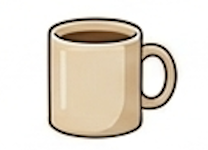
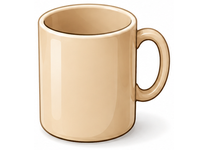
bug fix(after repetitious failing to update index properly))

diff --git a/index.html b/index.html
@@ -296,19 +296,25 @@ function toggleMute() {
   document.body.appendChild(btn);
 })();
 
-// ── SFX (blob URL cache + new Audio) ─────────────────────────────────────
-const _sfxBlobUrls = {};
-function _fetchSfx(name) {
-  fetch('audio/' + name + '.mp3')
-    .then(function(r) { return r.blob(); })
-    .then(function(blob) { _sfxBlobUrls[name] = URL.createObjectURL(blob); })
-    .catch(function() {});
-}
+// ── SFX (single element per sound) ───────────────────────────────────────
+const _sfxAudio = {};
+['clickysound','correctsound','wrongsound'].forEach(function(name) {
+  _sfxAudio[name] = new Audio('audio/' + name + '.mp3');
+});
 function _playSfx(name) {
-  if (_muted || !_sfxBlobUrls[name]) return;
-  try { new Audio(_sfxBlobUrls[name]).play().catch(function(){}); } catch(e) {}
+  if (_muted || !_sfxAudio[name]) return;
+  try { _sfxAudio[name].currentTime = 0; _sfxAudio[name].play().catch(function(){}); } catch(e) {}
 }
-['clickysound','correctsound','wrongsound'].forEach(_fetchSfx);
+// ── iOS Audio Unlock ──────────────────────────────────────────────────────
+(function() {
+  function _unlock() {
+    var a = new Audio('audio/clickysound.mp3');
+    a.muted = true;
+    a.play().then(function() { a.pause(); }).catch(function(){});
+  }
+  document.addEventListener('touchstart', _unlock, { once: true, capture: true });
+  document.addEventListener('click',      _unlock, { once: true, capture: true });
+})();
 
 // ── Word audio (blob URL cache + new Audio) ──────────────────────────────
 const _wordBlobUrls = {};

diff --git a/game2.html b/game2.html
@@ -334,19 +334,14 @@ function toggleMute() {
   document.body.appendChild(btn);
 })();
 
-// ── SFX (2-element pool per sound, preload + iOS-unlock) ──────────────────
-const _sfxPool = {};
-(function() {
-  ['clickysound','correctsound','wrongsound'].forEach(function(name) {
-    var p = [new Audio('audio/'+name+'.mp3'), new Audio('audio/'+name+'.mp3')];
-    p.forEach(function(a) { a.preload = 'auto'; a.load(); });
-    _sfxPool[name] = { p: p, i: 0 };
-  });
-})();
+// ── SFX (single element per sound) ───────────────────────────────────────
+const _sfxAudio = {};
+['clickysound','correctsound','wrongsound'].forEach(function(name) {
+  _sfxAudio[name] = new Audio('audio/' + name + '.mp3');
+});
 function _playSfx(name) {
-  if (_muted || !_sfxPool[name]) return;
-  var e = _sfxPool[name], a = e.p[e.i++ & 1];
-  try { a.currentTime = 0; a.play().catch(function(){}); } catch(ex) {}
+  if (_muted || !_sfxAudio[name]) return;
+  try { _sfxAudio[name].currentTime = 0; _sfxAudio[name].play().catch(function(){}); } catch(e) {}
 }
 
 // ── Word audio (blob URL cache + new Audio) ──────────────────────────────
@@ -397,7 +392,6 @@ window.getNinjaCatalogs = function () {
 
 function playSfx(f) { _playSfx(f); }
 var _wordAudio = new Audio('audio/clickysound.mp3'); // reusable element (iOS unlock seed)
-_wordAudio.preload = 'auto';
 function speak(w) {
   if (_muted || !w) return;
   const key = getFileKey(w);
@@ -406,7 +400,6 @@ function speak(w) {
   try {
     _wordAudio.pause();
     _wordAudio.src = url;
-    _wordAudio.load();
     _wordAudio.play().catch(function(){});
   } catch(e) {}
 }

diff --git a/sentence-ninja.html b/sentence-ninja.html
@@ -678,19 +678,14 @@ function toggleMute() {
   document.body.appendChild(btn);
 })();
 
-// ── SFX (2-element pool per sound, preload + iOS-unlock) ──────────────────
-const _sfxPool = {};
-(function() {
-  ['clickysound','correctsound','wrongsound','correctsound_short','correct_short'].forEach(function(name) {
-    var p = [new Audio('audio/'+name+'.mp3'), new Audio('audio/'+name+'.mp3')];
-    p.forEach(function(a) { a.preload = 'auto'; a.load(); });
-    _sfxPool[name] = { p: p, i: 0 };
-  });
-})();
+// ── SFX (single element per sound) ───────────────────────────────────────
+const _sfxAudio = {};
+['clickysound','correctsound','wrongsound','correctsound_short','correct_short'].forEach(function(name) {
+  _sfxAudio[name] = new Audio('audio/' + name + '.mp3');
+});
 function _playSfx(name) {
-  if (_muted || !_sfxPool[name]) return;
-  var e = _sfxPool[name], a = e.p[e.i++ & 1];
-  try { a.currentTime = 0; a.play().catch(function(){}); } catch(ex) {}
+  if (_muted || !_sfxAudio[name]) return;
+  try { _sfxAudio[name].currentTime = 0; _sfxAudio[name].play().catch(function(){}); } catch(e) {}
 }
 
 function playSfx(f) { _playSfx(f); }
@@ -705,7 +700,6 @@ function _preloadSentence(key) {
     .catch(function() { _sentenceBlobUrls[key] = ''; });
 }
 var _sentenceAudio = new Audio('audio/clickysound.mp3'); // reusable element (iOS unlock seed)
-_sentenceAudio.preload = 'auto';
 function speakSentence(audio) {
   if (_muted || !audio) return;
   if (!(audio in _sentenceBlobUrls)) _preloadSentence(audio);
@@ -713,7 +707,6 @@ function speakSentence(audio) {
   try {
     _sentenceAudio.pause();
     _sentenceAudio.src = url;
-    _sentenceAudio.load();
     _sentenceAudio.play().catch(function(){});
   } catch(e) {}
 }

diff --git a/spelling-ninja.html b/spelling-ninja.html
@@ -505,19 +505,14 @@ function toggleMute() {
   document.body.appendChild(btn);
 })();
 
-// ── SFX (2-element pool per sound, preload + iOS-unlock) ──────────────────
-const _sfxPool = {};
-(function() {
-  ['clickysound','correctsound','correctsound_short','wrongsound','hintsound'].forEach(function(name) {
-    var p = [new Audio('audio/'+name+'.mp3'), new Audio('audio/'+name+'.mp3')];
-    p.forEach(function(a) { a.preload = 'auto'; a.load(); });
-    _sfxPool[name] = { p: p, i: 0 };
-  });
-})();
+// ── SFX (single element per sound) ───────────────────────────────────────
+const _sfxAudio = {};
+['clickysound','correctsound','correctsound_short','wrongsound','hintsound'].forEach(function(name) {
+  _sfxAudio[name] = new Audio('audio/' + name + '.mp3');
+});
 function _playSfx(name) {
-  if (_muted || !_sfxPool[name]) return;
-  var e = _sfxPool[name], a = e.p[e.i++ & 1];
-  try { a.currentTime = 0; a.play().catch(function(){}); } catch(ex) {}
+  if (_muted || !_sfxAudio[name]) return;
+  try { _sfxAudio[name].currentTime = 0; _sfxAudio[name].play().catch(function(){}); } catch(e) {}
 }
 
 // ── Word audio (blob URL cache + new Audio) ──────────────────────────────
@@ -752,7 +747,6 @@ function ninjaLogWrong(word, ms){
 
 function playSfx(f) { _playSfx(f); }
 var _wordAudio = new Audio('audio/clickysound.mp3'); // reusable element (iOS unlock seed)
-_wordAudio.preload = 'auto';
 function speak(w) {
   if (_muted || !w) return;
   const key = w.replace(/\s+/g, '_');
@@ -761,7 +755,6 @@ function speak(w) {
   try {
     _wordAudio.pause();
     _wordAudio.src = url;
-    _wordAudio.load();
     _wordAudio.play().catch(function(){});
   } catch(e) {}
 }

diff --git a/eigo-ninja.html b/eigo-ninja.html
@@ -3167,19 +3167,14 @@ function toggleMute() {
   document.body.appendChild(btn);
 })();
 
-// ── SFX (2-element pool per sound, preload + iOS-unlock) ──────────────────
-const _sfxPool = {};
-(function() {
-  ['clickysound','correctsound','wrongsound'].forEach(function(name) {
-    var p = [new Audio('audio/'+name+'.mp3'), new Audio('audio/'+name+'.mp3')];
-    p.forEach(function(a) { a.preload = 'auto'; a.load(); });
-    _sfxPool[name] = { p: p, i: 0 };
-  });
-})();
+// ── SFX (single element per sound) ───────────────────────────────────────
+const _sfxAudio = {};
+['clickysound','correctsound','wrongsound'].forEach(function(name) {
+  _sfxAudio[name] = new Audio('audio/' + name + '.mp3');
+});
 function _playSfx(name) {
-  if (_muted || !_sfxPool[name]) return;
-  var e = _sfxPool[name], a = e.p[e.i++ & 1];
-  try { a.currentTime = 0; a.play().catch(function(){}); } catch(ex) {}
+  if (_muted || !_sfxAudio[name]) return;
+  try { _sfxAudio[name].currentTime = 0; _sfxAudio[name].play().catch(function(){}); } catch(e) {}
 }
 // ── iOS Audio Unlock ──────────────────────────────────────────────────────
 // Plays a disposable muted element on first gesture to unlock tab-level audio.